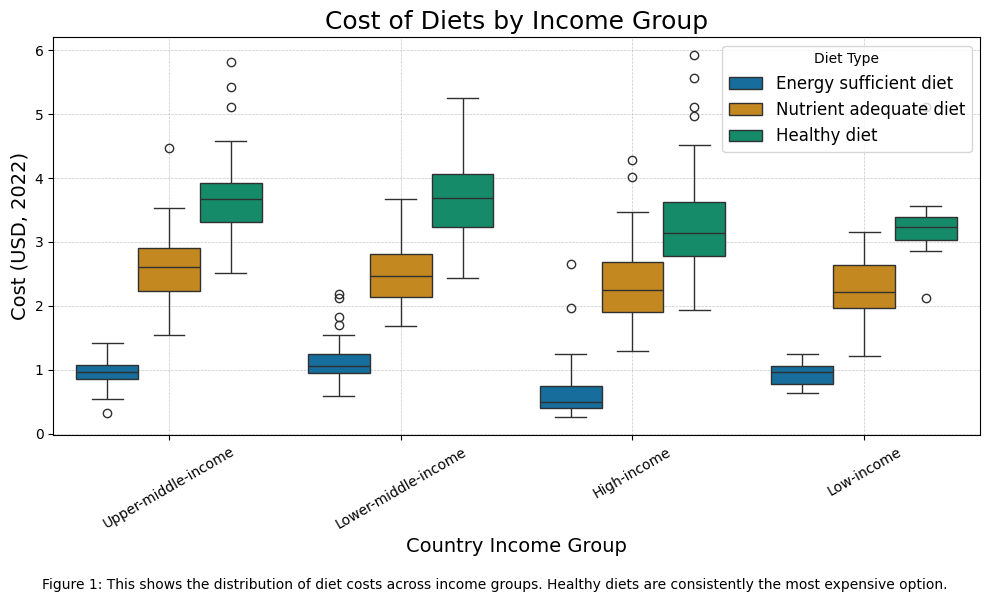
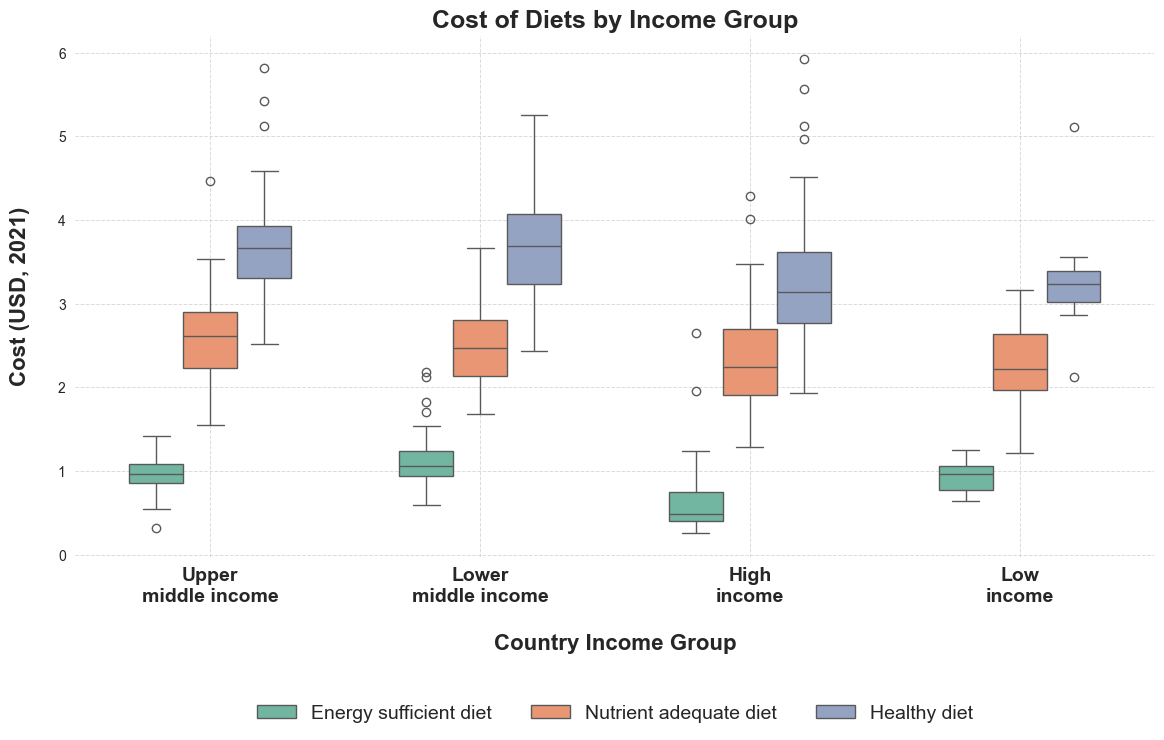
Improved aesthetics of box plot visualisation, e.g. colours, fonts, axis labels

diff --git a/scripts/create_cost_by_income_boxplot.py b/scripts/create_cost_by_income_boxplot.py
@@ -2,16 +2,18 @@ import pandas as pd
 import matplotlib.pyplot as plt
 import seaborn as sns
 
+# Define the file path for the dataset
 data_path = r'C:/Users/patel\DAT5902_lab/FinalProject\data/Food_Prices_For_Nutrition.xlsx'
 
 try:
-    # Load the main data sheet
+    # Step 1: Load the main data sheet containing diet costs for various countries
     main_data = pd.read_excel(data_path, sheet_name='Data')
     
-    # Load the country metadata sheet for income group and region
+    # Step 2: Load metadata sheet containing country income groups and regions
     country_metadata = pd.read_excel(data_path, sheet_name='Country - Metadata')
     
-    # Merge the main dataset with country metadata
+    # Step 3: Merge the main data with country metadata on the country name
+    # This ensures that income groups and regions are added to the dataset
     merged_data = pd.merge(
         main_data, 
         country_metadata, 
@@ -20,62 +22,89 @@ try:
         how='left'
     )
     
+    # Step 4: Transform the dataset to create a long format suitable for plotting
+    # Each row represents the cost of a specific diet type for a particular income group
     filtered_data = merged_data.melt(
-        id_vars=['Income Group'],
+        id_vars=['Income Group'],  # Keep the income group as an identifier
         value_vars=[
             'Cost of an energy sufficient diet',
             'Cost of a nutrient adequate diet',
             'Cost of a healthy diet'
         ],
-        var_name='Diet Type',
-        value_name='Cost'
+        var_name='Diet Type',  # Create a column for diet types
+        value_name='Cost'  # Create a column for corresponding costs
     )
 
-    # Replace long column names with shorter labels for visualisation
+    # Step 5: Replace long column names with shorter, more readable labels for visualisation
     filtered_data['Diet Type'] = filtered_data['Diet Type'].replace({
         'Cost of an energy sufficient diet': 'Energy sufficient diet',
         'Cost of a nutrient adequate diet': 'Nutrient adequate diet',
         'Cost of a healthy diet': 'Healthy diet'
     })
 
-    # Drop rows with missing Income Group
+    # Step 6: Drop rows where the Income Group is missing, as these cannot be categorised
     filtered_data = filtered_data.dropna(subset=['Income Group'])
 
-    # Create the figure and axis
-    fig, ax = plt.subplots(figsize=(10, 6))
+    # Step 7: Set up the figure and styling for the plot
+    plt.figure(figsize=(12, 8))  # Define the figure size
+    sns.set_style("whitegrid")  # Apply a clean white grid style
 
-    # Create the boxplot
+    # Step 8: Define a custom colour palette with 3 distinct colours for the diet types
+    palette = sns.color_palette("Set2", n_colors=3)
+
+    # Step 9: Create a boxplot to visualise the distribution of diet costs by income group
     sns.boxplot(
         data=filtered_data,
         x='Income Group',
         y='Cost',
-        hue='Diet Type',
-        palette='colorblind',
-        ax=ax
+        hue='Diet Type',  # Differentiate costs by diet type
+        palette=palette,  # Apply the custom colour palette
+        width=0.6  # Adjust box width for better spacing
     )
 
-    # Add gridlines
-    ax.grid(visible=True, which='both', linestyle='--', linewidth=0.5, alpha=0.7)
-
-    # Customize the plot
-    ax.set_title('Cost of Diets by Income Group', fontsize=18)
-    ax.set_xlabel('Country Income Group', fontsize=14)
-    ax.set_ylabel('Cost (USD, 2022)', fontsize=14)
-    ax.legend(title='Diet Type', fontsize=12)
-    plt.xticks(rotation=30)
-
-    fig.text(
-    0.5, 0.01, 
-    "Figure 1: This shows the distribution of diet costs across income groups. Healthy diets are consistently the most expensive option.",
-    wrap=True, horizontalalignment='center', fontsize=10
+    # Step 10: Customise x-axis labels for better readability
+    # Multi-line labels are used to avoid crowding
+    plt.xticks(
+        ticks=[0, 1, 2, 3],  # Positions of the labels
+        labels=['Upper\nmiddle income', 'Lower\nmiddle income', 'High\nincome', 'Low\nincome'], 
+        fontsize=14, 
+        fontweight='bold'
     )
-    plt.tight_layout(rect=[0, 0.04, 1, 1])  
 
-    # Save the figure
+    # Step 11: Add gridlines to improve readability of the plot
+    plt.grid(visible=True, which='major', linestyle='--', linewidth=0.7, alpha=0.7)
+
+    # Step 12: Set axis labels and title with increased font size and bold styling
+    plt.xlabel('Country Income Group', fontsize=16, fontweight='bold', labelpad=20)  # Add space below x-axis label
+    plt.ylabel('Cost (USD, 2021)', fontsize=16, fontweight='bold', labelpad=20)  # Add space to the left of y-axis label
+    plt.title('Cost of Diets by Income Group', fontsize=18, fontweight='bold')  # Add a title
+
+    # Step 13: Customise the legend to stretch horizontally and improve readability
+    plt.legend(
+        fontsize=14,  # Increase font size for legend items
+        title_fontsize=16,  # Increase font size for the legend title
+        loc='upper center',  # Position the legend at the top center
+        bbox_to_anchor=(0.5, -0.25),  # Adjust position to stretch horizontally below the plot
+        ncol=3,  # Arrange legend items in a single row
+        frameon=False  # Remove the legend border
+    )
+
+    # Step 14: Remove unnecessary spines for a cleaner look
+    sns.despine(left=True, bottom=True)
+
+    # Step 15: Adjust layout to ensure all elements fit well within the figure
+    plt.tight_layout(pad=2)  # Add padding around the plot for better spacing
+
+    # Step 16: Save the final figure as a PNG file in the figures directory
     plt.savefig('./figures/cost_by_income_boxplot.png', bbox_inches='tight')
     print("\nVisualization saved to './figures/cost_by_income_boxplot.png'.")
 
+    # Step 17: Display the plot
+    plt.show()
+
 except KeyError as e:
+    # Handle missing column errors in the dataset
     print(f"KeyError: {e}. Check column names in the dataset.")
 except Exception as e:
+    # Handle any other unexpected errors
     print(f"Error: {e}")
